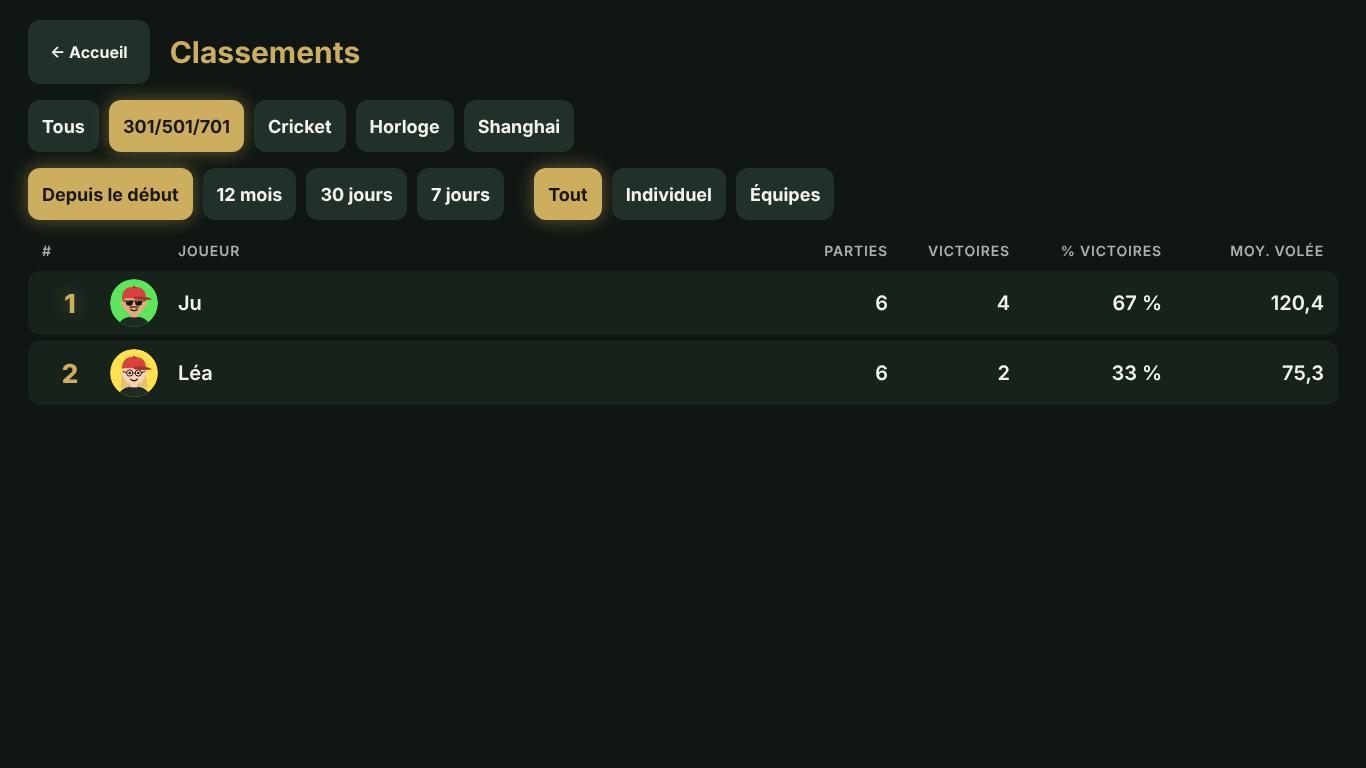
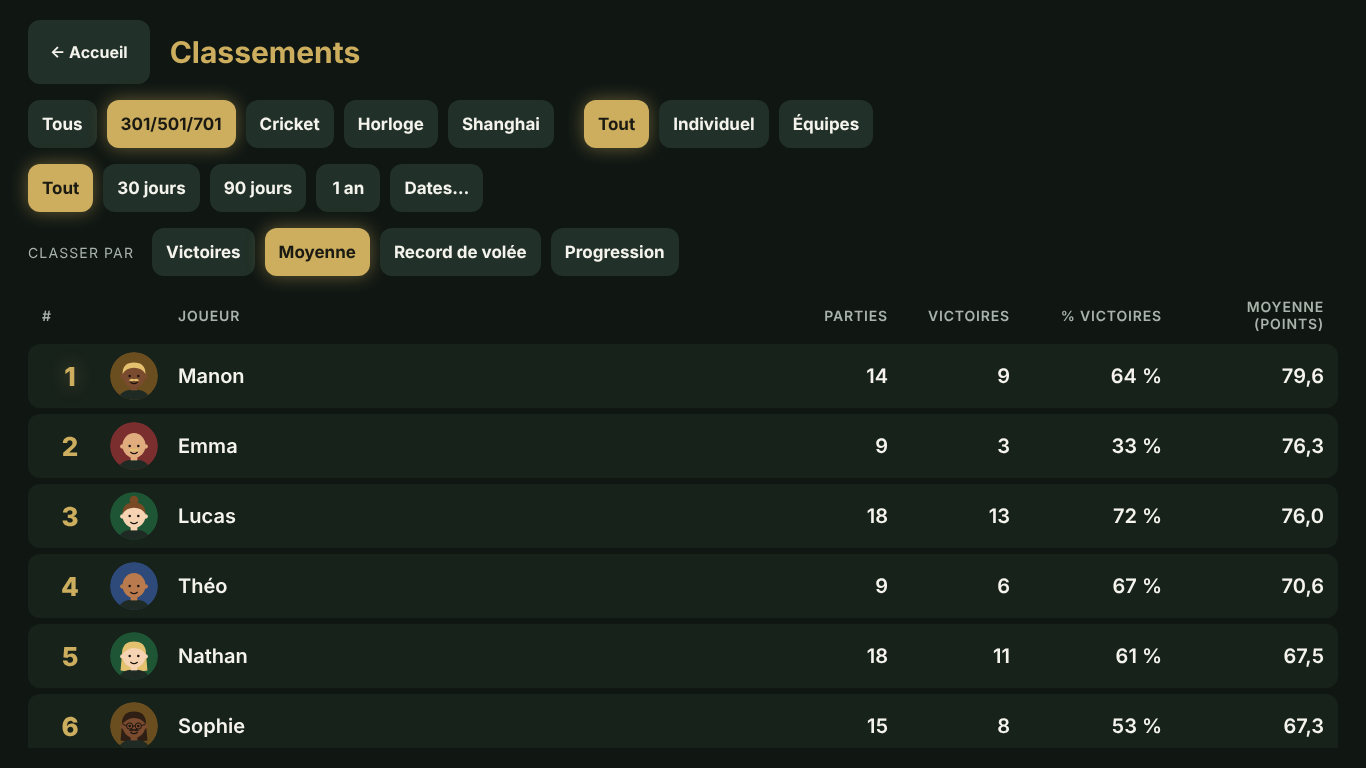
Documentation de l'avenant statistiques : guide, technique et recette
Claude-Session: https://claude.ai/code/session_01QeLbn1TDExKVdVifApxP6E

diff --git a/docs/guide-utilisateur.md b/docs/guide-utilisateur.md
@@ -23,7 +23,8 @@ L'application s'ouvre sur l'accueil.
 ## 2. Créer les joueurs
 
 Chaque joueur a un profil : un surnom, une couleur et un avatar. Le profil est obligatoire, c'est lui qui
-porte les statistiques.
+porte les statistiques. On peut avoir **20 profils** au plus ; le compteur est à côté du titre **Joueurs**.
+Au-delà, supprimez un profil pour en créer un autre.
 
 Depuis **Joueurs**, appuyez sur **＋ Nouveau joueur**. Vous pouvez aussi créer un joueur directement au
 moment de lancer une partie.
@@ -178,37 +179,82 @@ immédiatement. L'écran rappelle les zones qui manquent encore.
 
 ## 6. Statistiques et classements
 
+Toutes les statistiques sont recalculées à partir des parties enregistrées. Quand une valeur ne peut pas
+être calculée (pas assez de parties sur la période, par exemple), l'écran affiche **non disponible**, jamais
+un 0 trompeur. L'application note chaque fléchette (zone et numéro) mais pas la cible que le joueur visait :
+elle ne donne donc ni précision sur une cible, ni taux de ratés, ni carte de chaleur.
+
 ### Fiche joueur
 
-Depuis **Joueurs**, touchez un joueur pour ouvrir sa fiche.
+Depuis **Joueurs**, touchez un joueur pour ouvrir sa fiche. Les filtres en haut s'appliquent à tous les onglets :
 
-![Fiche joueur](images/profil.png)
+- le **mode** (Tous, 301/501/701, Cricket, Horloge, Shanghai) ;
+- la **formule** (Tout, Individuel, Équipes) ;
+- la **période** : Tout, 30 jours, 90 jours, 1 an, ou **Dates…** pour choisir le début et la fin.
 
-- **En haut**, des filtres : par mode, et en individuel ou en équipes.
-- **Les tuiles** : parties terminées, victoires (en solo et en équipe), taux de victoire, triple et simple
-  les plus touchés.
-- **Par mode** :
-  - au 301/501/701, une carte par variante : moyenne par volée et par fléchette, réussite aux doubles,
-    meilleure volée, meilleure finition, busts, volées à 100 et plus, 140 et plus, 180 ;
-  - au Cricket : marques par volée ;
-  - à l'Horloge : record en fléchettes ;
-  - au Shanghai : meilleur score et Shanghai réussis.
-- **À droite, l'historique** des parties, abandonnées comprises.
+#### Résumé
+
+![Résumé de la fiche joueur](images/profil.png)
+
+Parties terminées, victoires, défaites et taux de victoire, puis les **cartes de records** : meilleure volée et
+meilleure moyenne sur une partie (au moins 3 volées) pour chaque mode, et plus grand checkout au 301/501/701.
+À droite, une carte par variante et par mode (moyennes, réussite aux doubles, meilleure finition, busts,
+volées à 100, 140 et 180…).
+
+#### Scores
+
+![Onglet Scores](images/profil-scores.png)
+
+Avec le filtre **Tous**, choisissez le mode affiché à droite (le plus joué est proposé d'abord).
+
+- **Moyenne par volée**, avec le nombre de volées et de parties sur lesquelles elle repose.
+- **Régularité** : l'écart type des volées. Plus il est petit, plus les volées se ressemblent.
+- **Meilleure volée** et le nombre de fois où elle a été réalisée.
+- **Volées au-dessus des seuils** : la part des volées à 60, 100 et 140 points ou plus. **Modifier les
+  seuils** change ces trois valeurs ; elles sont gardées sur le PC. Au Cricket, les seuils sont 3, 5 et 7
+  marques.
+- **Répartition des volées** : un histogramme par tranches de 10, 20 ou 30 points (une colonne par nombre de
+  marques au Cricket). Touchez une colonne pour son détail, ou **Voir en tableau**.
+- **Clôture des parties gagnées** (301/501/701) : volées et fléchettes moyennes pour finir, et la partie la plus
+  rapide. Seules les victoires en individuel comptent : en équipe, la fin dépend aussi des partenaires.
+
+Au 301/501/701, une volée en bust compte pour 0. Au Cricket, une volée vaut ses marques.
+
+#### Progression
+
+![Onglet Progression](images/profil-progression.png)
+
+- La **courbe** de la moyenne par volée, par semaine (à partir du lundi), par mois ou par année. Touchez-la pour
+  le détail d'un point.
+- Le tableau **Période actuelle et précédente** compare la période choisie à la période de même durée juste
+  avant : parties, victoires, taux de victoire, moyenne et meilleure volée, avec l'évolution (▲ en hausse,
+  ▼ en baisse). Sans période choisie, il compare les 30 derniers jours aux 30 jours d'avant.
+
+L'Horloge n'a pas d'onglet Scores ni Progression : on n'y saisit que Touché ou Raté. Ses records sont dans le
+Résumé.
+
+#### Historique, export et impression
+
+- **Historique** : toutes les parties, abandonnées comprises.
+- **Exporter CSV** télécharge un fichier avec une ligne par volée (date, mode, manche, fléchettes, valeur,
+  issue), pour les filtres en cours. Il s'ouvre dans Excel.
+- **Imprimer / PDF** imprime l'onglet affiché sur fond blanc. Choisissez « Enregistrer au format PDF » comme
+  imprimante pour obtenir un PDF.
 
 ### Classements
 
 ![Classements](images/classements.png)
 
-Choisissez le mode, la période (depuis le début, 12 mois, 30 jours, 7 jours) et la formule. Les joueurs sont
-classés par taux de victoire, puis par nombre de victoires. Il faut **5 parties terminées** pour être classé.
-En dessous, les joueurs qui n'en ont pas encore assez sont listés à part. L'entraînement ne compte jamais.
+Choisissez le mode, la formule et la période (mêmes choix que sur la fiche joueur), puis **Classer par** :
 
-Quand un mode est choisi, la dernière colonne donne sa statistique clé :
+- **Victoires** : taux de victoire, puis nombre de victoires (tous les modes) ;
+- **Moyenne** : moyenne par volée ;
+- **Record de volée** : meilleure volée ;
+- **Progression** : écart de moyenne avec la période précédente de même durée. Il faut choisir une période.
 
-- au 301/501/701 : la moyenne par volée ;
-- au Cricket : les marques par volée ;
-- à l'Horloge : le record ;
-- au Shanghai : le meilleur score.
+Les trois derniers ne sont possibles qu'avec un mode à score (301/501/701, Cricket ou Shanghai). Il faut
+**5 parties terminées** pour être classé ; les autres joueurs sont listés à part. L'entraînement ne compte
+jamais. Quand une valeur manque, le joueur est placé en fin de liste avec « non disponible ».
 
 Si une partie est corrigée ou rouverte, les statistiques sont recalculées, sans doublon.
 

diff --git a/docs/technique.md b/docs/technique.md
@@ -29,10 +29,10 @@ Une fois les fichiers servis en local, une coupure d'Internet n'a aucun effet.
 | `src/game-engine` | Règles des 4 familles de modes (6 modes), calcul des scores, vainqueurs, classements, suggestions de finition. Aucune dépendance à l'interface. |
 | `src/game-session` | Cycle de vie d'une partie : création, lancers, fin de tour, annulation, correction, abandon, revanche. |
 | `src/teams` | Équipes, tirage au sort, ordre de passage, couleurs d'équipe. |
-| `src/profiles` | Types des profils et des archives ; statistiques et classements (`stats.ts`). |
+| `src/profiles` | Types des profils et des archives ; statistiques et classements (`stats.ts`), statistiques de score par volée, progression, périodes et classements par moyenne (`scores.ts`), export CSV (`export.ts`). |
 | `src/storage` | Partie en cours (`currentGame.ts`, localStorage) ; base IndexedDB (`db.ts`). |
-| `src/settings` | Réglages d'affichage (durée de la transition, animations). |
-| `src/ui` | Écrans React. `src/ui/modes` contient ce qui change d'un mode à l'autre à l'écran ; `src/ui/components` les éléments partagés (pavé de saisie, avatar, cible de l'Horloge, éditeur de profil). |
+| `src/settings` | Réglages d'affichage (durée de la transition, animations) et des statistiques (seuils, tranches de l'histogramme). |
+| `src/ui` | Écrans React. `src/ui/modes` contient ce qui change d'un mode à l'autre à l'écran ; `src/ui/components` les éléments partagés (pavé de saisie, avatar, cible de l'Horloge, éditeur de profil, graphiques des statistiques `Charts.tsx`, filtre de période `PeriodFilter.tsx`). |
 | `docs` | Règles appliquées (`regles.md`), guide utilisateur, cette documentation, procès-verbal de recette. |
 | `scripts/recette-ui.cjs` | Recette automatisée de l'interface dans Chromium. |
 
@@ -152,7 +152,7 @@ Dans l'application, un code administrateur protégera la sortie du kiosque, les 
 | Donnée | Emplacement | Clé |
 | --- | --- | --- |
 | Partie en cours | `localStorage` | `trem-dragooon.current-game` |
-| Réglages | `localStorage` | `trem-dragooon.settings` (`transitionMs`, `animations`) |
+| Réglages | `localStorage` | `trem-dragooon.settings` (`transitionMs`, `animations`, `statThresholds`, `histogramStep`) |
 | Profils | IndexedDB, base `trem-dragooon` v1 | magasin `profiles`, clé `id` |
 | Parties archivées | IndexedDB, base `trem-dragooon` v1 | magasin `games`, clé `id` (identifiant de la partie) |
 

diff --git a/docs/recette.md b/docs/recette.md
@@ -146,6 +146,19 @@ Légende : ✅ Conforme · 🟡 Conforme avec réserve · ⛔ Non livré.
 | H09 | Animations désactivées : fonctionnement identique | Interface (pas d'écran de transition, le tour passe directement) | 🟡 Le réglage existe, mais l'écran de réglages arrive au lot 5. |
 | H10 | Changer de mode : pas de contamination | Test auto + interface | ✅ |
 
+### S. Avenant statistiques joueurs (v2)
+
+Recette du 29/10/2026, sur 12 profils et 114 parties de test générées par le moteur, en 1366 × 768 et
+1920 × 1080.
+
+| Id | Critère de l'avenant | Vérifié par | État |
+| --- | --- | --- | --- |
+| S01 | 20 profils au maximum, profils et historique existants conservés | Interface (compteur 12/20, bouton désactivé à 20, aussi au lancement d'une partie). La base n'a pas changé de version : rien n'est migré ni effacé. | ✅ |
+| S02 | Statistiques calculables à partir des données réelles | Test auto (`scores.test.ts`, 12 tests : moyenne, écart type, seuils, tranches, bust = 0, marques du Cricket, semaines, mois, périodes, clôture, records, classements, CSV) | ✅ |
+| S03 | Aucun visuel ne suggère une précision non mesurée | Revue : pas de carte de chaleur, de précision par cible visée ni de taux de ratés. Les numéros les plus touchés et la réussite aux doubles viennent des fléchettes saisies, avec la mention « Ne dit rien de la cible visée ». | ✅ |
+| S04 | Valeurs, unités et volumes cohérents | Interface : chaque moyenne affiche son unité (points ou marques) et le nombre de volées et de parties. « non disponible » remplace les valeurs non calculables. | ✅ |
+| S05 | Fonctions initiales conservées | Les 109 tests d'origine passent toujours (121 au total) ; parcours de jeu inchangé. | ✅ |
+
 ## 4. Bilan
 
 | État | Nombre |
@@ -167,6 +180,7 @@ Légende : ✅ Conforme · 🟡 Conforme avec réserve · ⛔ Non livré.
 | Fonctions principales utilisables au tactile, sans clavier ni souris | 🟡 Oui, sauf la saisie des surnoms par le clavier tactile Windows |
 | Règles de chaque mode documentées et testées | ✅ `docs/regles.md` et tests A à E |
 | Statistiques cohérentes avec les résultats enregistrés | ✅ Recalculées à partir des archives (G03, G09) |
+| Avenant statistiques joueurs v2 | ✅ 5 / 5 (S01 à S05) |
 
 ## 5. Anomalies et points restants
 
